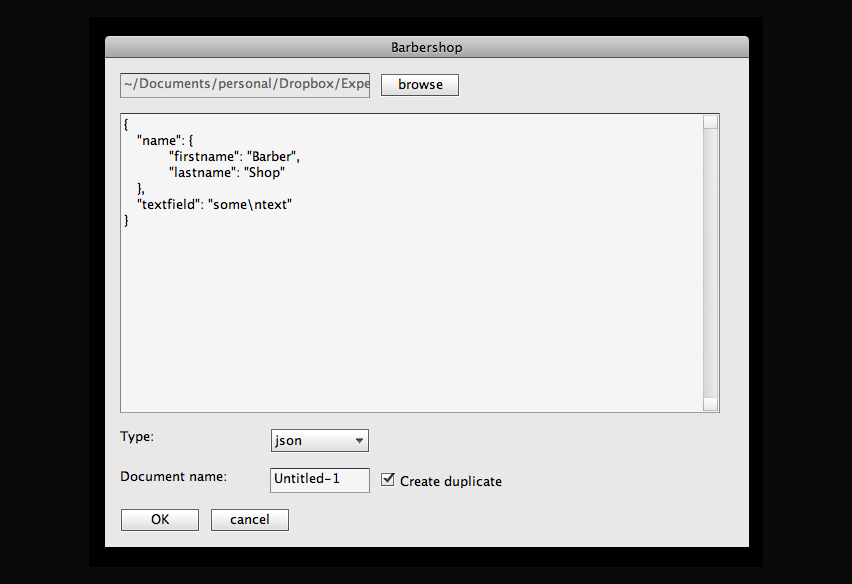
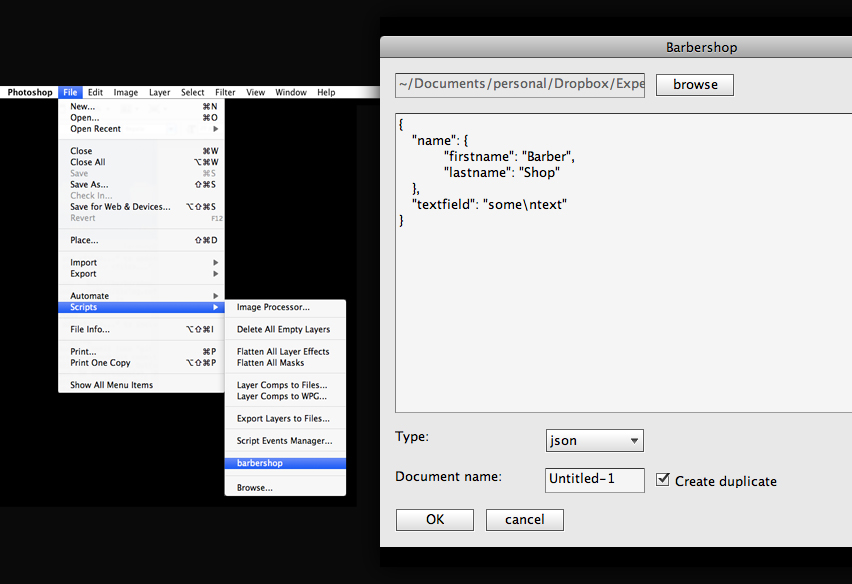
updated img

diff --git a/readme.md b/readme.md
@@ -14,11 +14,14 @@ Mac OS: `Applications\Adobe Photoshop CS5\Presets\Scripts`
 Create variables in your textlayers by wrapping them in double curly brackets, like so: `{{variable}}`. You can use object notation here if you wish, so `{{object.object.key}}` will work too (json only).
 
 #### 3. Run the script ####
-![](https://raw.github.com/EightMedia/ps-barbershop/master/assets/img/scripts-menu.jpg)
-
-Restart Photoshop. Now run the script from the Photoshop menu under `file › scripts › barbershop`. A dialog should now appear where you can tweak some import settings. Import your file and all your variables will be magically replaced by their matching data.
 
 ![](https://raw.github.com/EightMedia/ps-barbershop/master/assets/img/dialog.jpg)
+
+Restart Photoshop. 
+
+Now run the script from the Photoshop menu under `file › scripts › barbershop`.
+
+A dialog should now appear where you can tweak some import settings. Import your file and all your variables will be magically replaced by their matching data.
 
 ---
 
